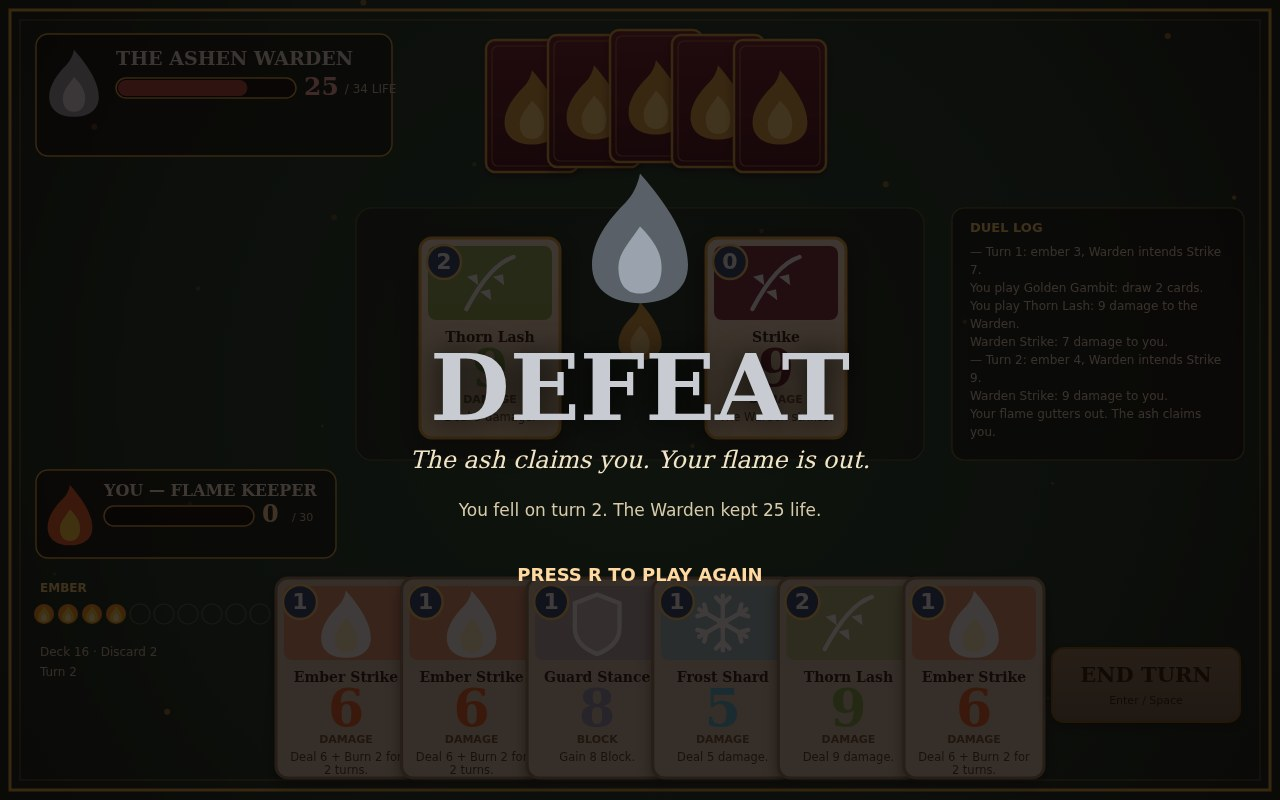
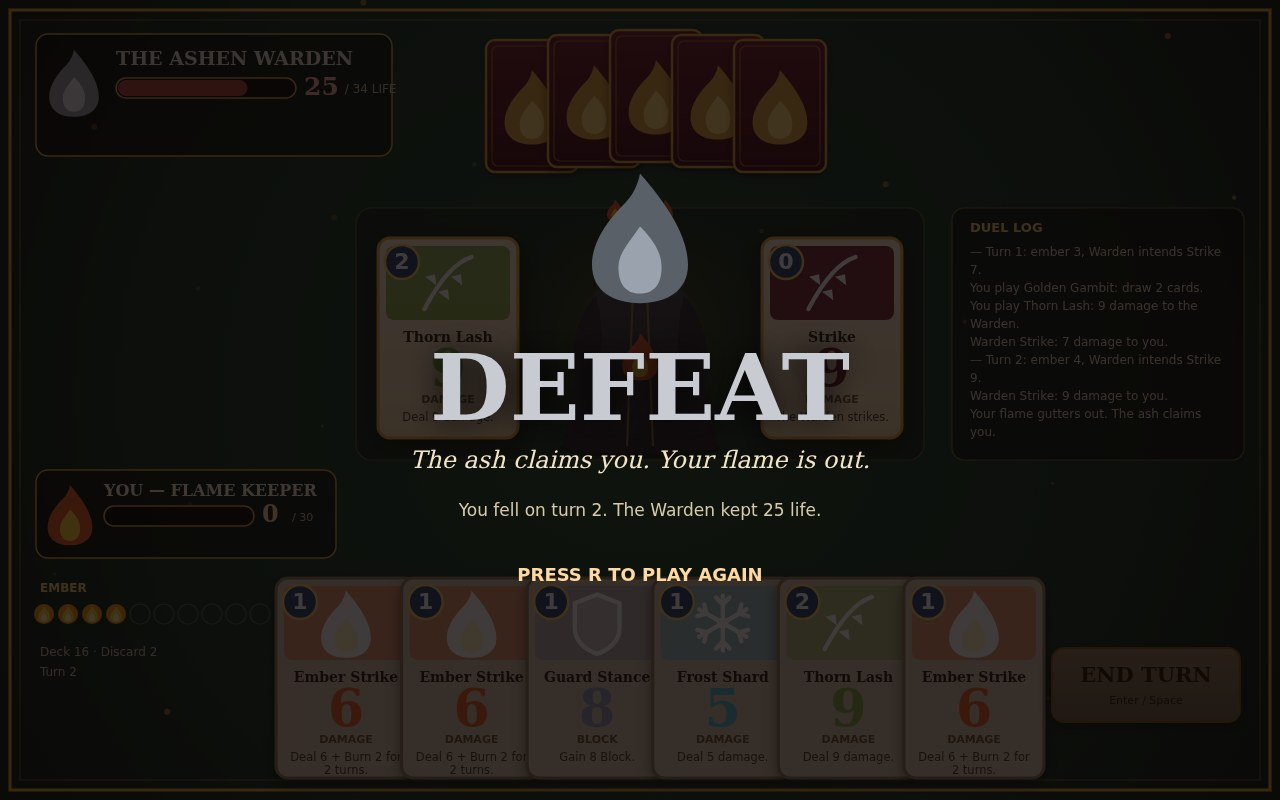
v3: the Ashen Warden takes the stage — procedural boss figure mid-panel
- drawWardenFigure: hooded ash figure, ember crown, glowing eyes, flame heart; burn flames at its hem when ignited; fades when it falls
- Played cards flank the boss (378 / 762); impact sparks re-aimed; centre stage no longer empty in play/win/lose frames

Changed region(s): [[0.4688, 0.2812, 0.7188, 0.5625], [0.2812, 0.2812, 0.4375, 0.5625], [0.4688, 0.25, 0.5, 0.2812]]

diff --git a/game/src/render.js b/game/src/render.js
@@ -255,7 +255,7 @@ function drawImpactSparks(ctx, age) {
   ctx.strokeStyle = '#ffcf6e';
   ctx.lineWidth = 2.5;
   ctx.lineCap = 'round';
-  const cx = 566;
+  const cx = 536;
   const cy = 330;
   for (let i = 0; i < 10; i += 1) {
     const angle = (i / 10) * Math.PI * 2 + 0.35;
@@ -382,16 +382,93 @@ function drawWardenZone(ctx, state) {
   }
 }
 
+/** The Ashen Warden itself, standing mid-panel: hooded ash-grey figure, ember crown,
+ * glowing eyes, a flame for a heart. Drawn from primitives — no external assets. */
+function drawWardenFigure(ctx, state) {
+  const cx = 640;
+  ctx.save();
+  if (state.warden.life <= 0) ctx.globalAlpha = 0.35; // Ashen indeed, once it falls.
+  // Ember glow behind the figure.
+  const glow = ctx.createRadialGradient(cx, 335, 10, cx, 335, 125);
+  glow.addColorStop(0, 'rgba(245,155,35,0.20)');
+  glow.addColorStop(1, 'rgba(245,155,35,0)');
+  ctx.fillStyle = glow;
+  ctx.fillRect(cx - 125, 210, 250, 250);
+  // Ground shadow.
+  ctx.fillStyle = 'rgba(0,0,0,0.4)';
+  ctx.beginPath(); ctx.ellipse(cx, 448, 80, 10, 0, 0, Math.PI * 2); ctx.fill();
+  // Robe: shoulders narrow, hem wide, ash gradient.
+  const robe = ctx.createLinearGradient(0, 270, 0, 450);
+  robe.addColorStop(0, '#484f58');
+  robe.addColorStop(1, '#202329');
+  ctx.fillStyle = robe;
+  ctx.beginPath();
+  ctx.moveTo(cx - 78, 448);
+  ctx.bezierCurveTo(cx - 66, 380, cx - 52, 330, cx - 46, 294);
+  ctx.bezierCurveTo(cx - 30, 276, cx + 30, 276, cx + 46, 294);
+  ctx.bezierCurveTo(cx + 52, 330, cx + 66, 380, cx + 78, 448);
+  ctx.bezierCurveTo(cx + 40, 456, cx - 40, 456, cx - 78, 448);
+  ctx.fill();
+  // Sleeves hanging at its sides.
+  ctx.fillStyle = '#2b2f36';
+  for (const dir of [-1, 1]) {
+    ctx.beginPath();
+    ctx.moveTo(cx + dir * 44, 296);
+    ctx.bezierCurveTo(cx + dir * 66, 318, cx + dir * 72, 356, cx + dir * 62, 396);
+    ctx.bezierCurveTo(cx + dir * 50, 402, cx + dir * 42, 398, cx + dir * 40, 380);
+    ctx.bezierCurveTo(cx + dir * 36, 348, cx + dir * 38, 318, cx + dir * 44, 296);
+    ctx.fill();
+  }
+  // Gold trim down the robe's front.
+  ctx.strokeStyle = 'rgba(217,164,65,0.55)';
+  ctx.lineWidth = 2;
+  ctx.beginPath(); ctx.moveTo(cx - 7, 292); ctx.lineTo(cx - 13, 446); ctx.stroke();
+  ctx.beginPath(); ctx.moveTo(cx + 7, 292); ctx.lineTo(cx + 13, 446); ctx.stroke();
+  // Hood.
+  ctx.fillStyle = '#333842';
+  ctx.beginPath();
+  ctx.moveTo(cx - 37, 292);
+  ctx.bezierCurveTo(cx - 42, 238, cx - 26, 214, cx, 214);
+  ctx.bezierCurveTo(cx + 26, 214, cx + 42, 238, cx + 37, 292);
+  ctx.bezierCurveTo(cx + 22, 302, cx - 22, 302, cx - 37, 292);
+  ctx.fill();
+  ctx.lineWidth = 1.5; ctx.strokeStyle = 'rgba(217,164,65,0.6)'; ctx.stroke();
+  // Face: a dark void with two ember eyes.
+  ctx.fillStyle = '#0e1013';
+  ctx.beginPath(); ctx.ellipse(cx, 264, 20, 24, 0, 0, Math.PI * 2); ctx.fill();
+  ctx.save();
+  ctx.shadowColor = '#ff9d2e';
+  ctx.shadowBlur = 9;
+  ctx.fillStyle = '#ffb347';
+  ctx.beginPath(); ctx.arc(cx - 8, 261, 3.4, 0, Math.PI * 2); ctx.fill();
+  ctx.beginPath(); ctx.arc(cx + 8, 261, 3.4, 0, Math.PI * 2); ctx.fill();
+  ctx.restore();
+  // Ember crown above the hood.
+  drawFlame(ctx, cx - 25, 210, 20, '#e8622c');
+  drawFlame(ctx, cx, 198, 27, '#f59b23');
+  drawFlame(ctx, cx + 25, 210, 20, '#e8622c');
+  // A flame for a heart.
+  drawFlame(ctx, cx, 356, 44, '#e8622c');
+  // When ignited, flames lick at the robe's hem too.
+  if (state.warden.burnTurns > 0) {
+    drawFlame(ctx, cx - 62, 424, 27, '#e8622c');
+    drawFlame(ctx, cx + 62, 424, 27, '#e8622c');
+    drawFlame(ctx, cx + 30, 440, 21, '#f59b23');
+  }
+  ctx.restore();
+}
+
 function drawCentre(ctx, state, fx) {
-  // Played cards in the middle of the table.
+  // Played cards flank the Warden in the middle of the table.
   ctx.save();
   ctx.fillStyle = 'rgba(0,0,0,0.25)';
   roundRect(ctx, 356, 208, 568, 252, 16); ctx.fill();
   ctx.lineWidth = 1.2; ctx.strokeStyle = 'rgba(217,164,65,0.35)'; ctx.stroke();
   ctx.restore();
+  drawWardenFigure(ctx, state);
   if (state.lastPlayerCard) {
     const pop = fx && fx.playerCardAge < 0.35 ? 1 + (0.35 - fx.playerCardAge) * 0.25 : 1;
-    drawCard(ctx, state.lastPlayerCard, 420, 238, CARD_W * pop, CARD_H * pop, { lift: true });
+    drawCard(ctx, state.lastPlayerCard, 378, 238, CARD_W * pop, CARD_H * pop, { lift: true });
   }
   if (state.lastWardenCard) {
     const asCard = {
@@ -403,17 +480,15 @@ function drawCentre(ctx, state, fx) {
       color: '#6e2430',
       text: state.lastWardenCard.kind === 'ward' ? 'The Warden wards itself.' : state.lastWardenCard.kind === 'stoke' ? 'The Warden stokes its ash.' : 'The Warden strikes.',
     };
-    drawCard(ctx, asCard, 706, 238, CARD_W, CARD_H, { lift: true });
+    drawCard(ctx, asCard, 762, 238, CARD_W, CARD_H, { lift: true });
   }
   if (!state.lastPlayerCard && !state.lastWardenCard) {
     ctx.save();
-    ctx.fillStyle = 'rgba(243,230,200,0.5)';
-    ctx.font = 'italic 19px Georgia, serif';
+    ctx.fillStyle = 'rgba(243,230,200,0.55)';
+    ctx.font = 'italic 15px Georgia, serif';
     ctx.textAlign = 'center'; ctx.textBaseline = 'middle';
-    ctx.fillText('The table awaits the first card.', 640, 334);
+    ctx.fillText('The table awaits the first card.', 640, 472);
     ctx.restore();
-  } else {
-    drawFlame(ctx, 640, 330, 54, GOLD, '#ffdf7e');
   }
   // Floating combat text.
   if (fx) {
